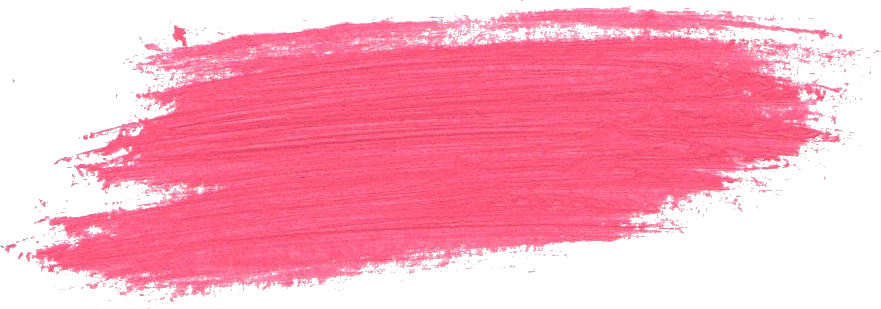
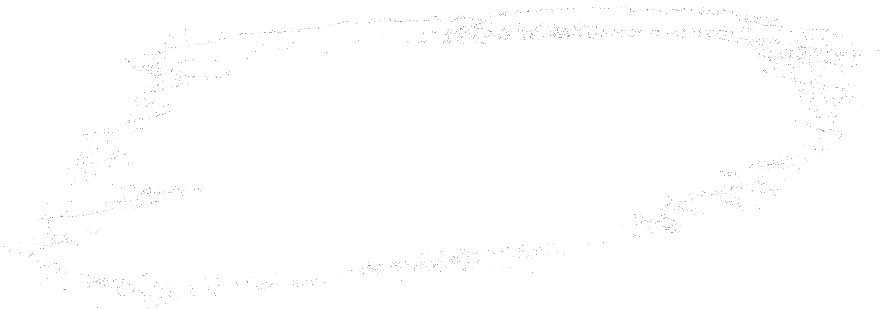
add more brush textures

diff --git a/Iteration_3/sketch_coloring_space_iteration_3/Brush.java b/Iteration_3/sketch_coloring_space_iteration_3/Brush.java
@@ -20,19 +20,21 @@ public class Brush extends PApplet{
   "../img/brush4.png", "../img/brush5.png", "../img/brush6.png", 
   "../img/brush7.png", "../img/brush8.png", "../img/brush9.png", 
   "../img/brush10.png"};
-  PImage brush;
+  PImage brushImage;
+  PImage brushImage2;
 
 
-  public Brush(PImage brush) {
-    this(new int[] {0, 0, 0}, brush);
+  public Brush(PImage bi, PImage bi2) {
+    this(new int[] {0, 0, 0}, bi, bi2);
   }
 
-  public Brush(int[] c, PImage brush) {
+  public Brush(int[] c, PImage bi, PImage bi2) {
     this.paintColor = c;
     this.paintAmount = 0.0f;
     this.scaleFactor = 30f;
     this.brushType = 0;
-    this.brush = brush;
+    this.brushImage = bi;
+    this.brushImage2 = bi2;
   }
 
   public void changeColor(int[] c) {
@@ -152,8 +154,8 @@ public class Brush extends PApplet{
     layer.tint(paintColor[0], paintColor[1], paintColor[2], 200);
     layer.pushMatrix();
     layer.translate(x-scaleFactor/2, y-scaleFactor/2);
-    brush.resize((int)scaleFactor, (int)scaleFactor);
-    layer.image(brush, 0, 0);
+    this.brushImage2.resize((int)scaleFactor, (int)scaleFactor);
+    layer.image(this.brushImage2, 0, 0);
     layer.popMatrix();
   }
 
@@ -164,8 +166,8 @@ public class Brush extends PApplet{
     layer.pushMatrix();
     layer.translate(x, y);
     layer.rotate((float)(brushAngle+((3*PI)/2)));
-    brush.resize((int)scaleFactor, 1); //can play with the thikness, currently 1
-    layer.image(brush, 0, 0);
+    this.brushImage.resize((int)scaleFactor, 1); //can play with the thikness, currently 1
+    layer.image(this.brushImage, 0, 0);
     layer.popMatrix();
     prevX = x;
     prevY = y;
@@ -188,11 +190,11 @@ public class Brush extends PApplet{
 
       float jiggleAngle =  (int)Math.floor(Math.random()*(max-min+1)+min);
       layer.rotate((float)(brushAngle+(Math.toRadians(90+jiggleAngle))));
-      brush.resize((int)scaleFactor, 5); //can play with the thickness  
+      this.brushImage.resize((int)scaleFactor, 5); //can play with the thickness  
 
       float jiggleScale =  (int)Math.floor(Math.random()*(0.03-0.03+1)+0.03);
       layer.scale((float)(0.8+jiggleScale));
-      layer.image(brush, 0, 0);
+      layer.image(this.brushImage, 0, 0);
       layer.popMatrix();
       prevX = x;
       prevY = y;
@@ -217,11 +219,11 @@ public class Brush extends PApplet{
       float jiggleAngle =  (int)Math.floor(Math.random()*(max-min+1)+min);
       layer.rotate((float)(brushAngle+(Math.toRadians(90+jiggleAngle))));
 
-      brush.resize((int)scaleFactor, (int)scaleFactor); //can play with the thickness  
+      this.brushImage.resize((int)scaleFactor, (int)scaleFactor); //can play with the thickness  
 
       float jiggleScale =  (int)Math.floor(Math.random()*(0.03-0.03+1)+0.03);
       layer.scale((float)(0.8+jiggleScale));
-      layer.image(brush, 0, 0);
+      layer.image(this.brushImage, 0, 0);
       layer.popMatrix();
       prevX = x;
       prevY = y;
